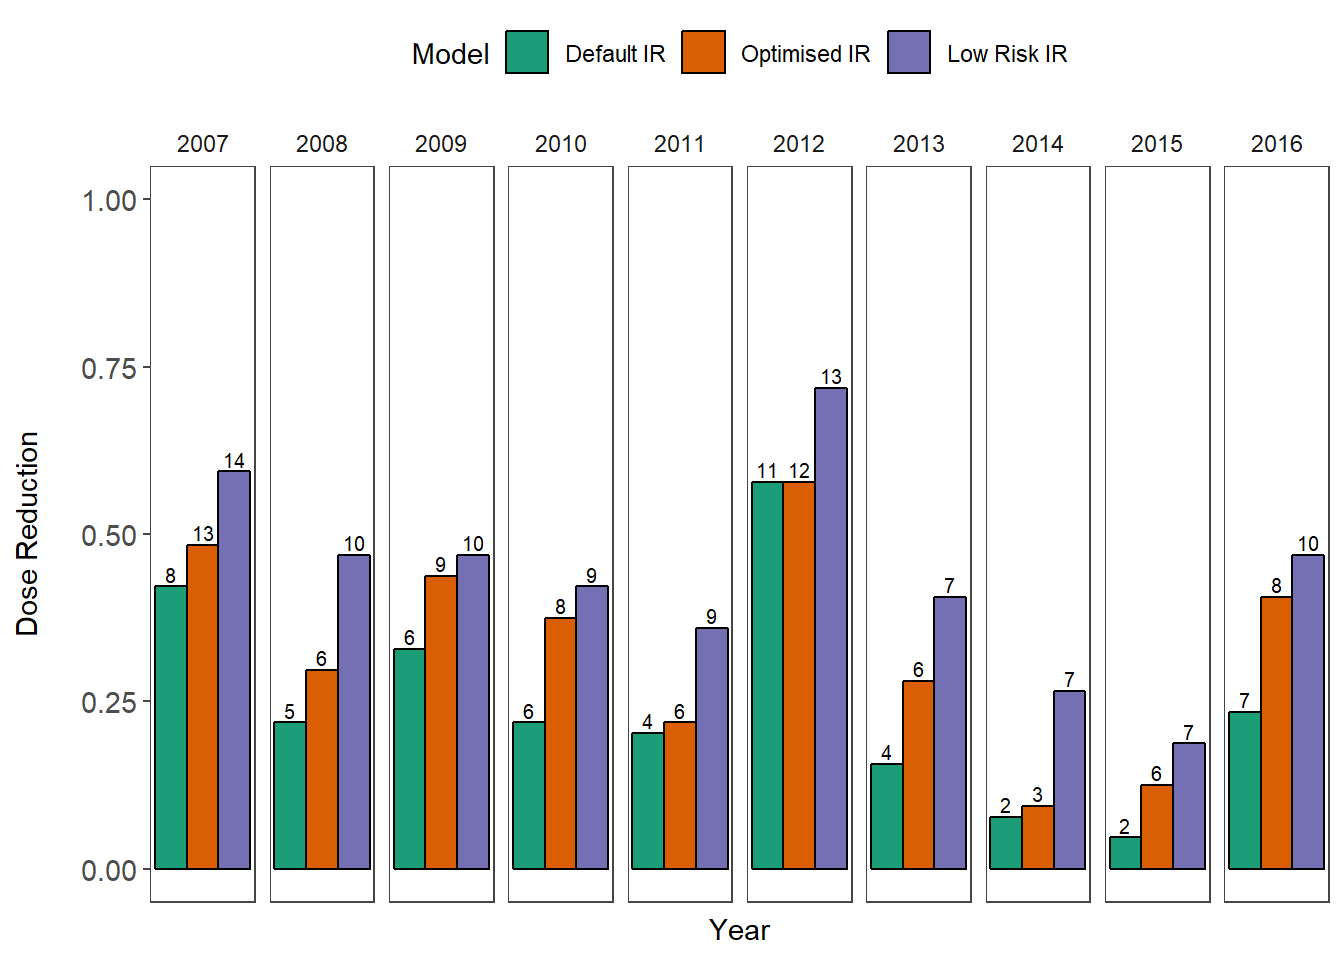
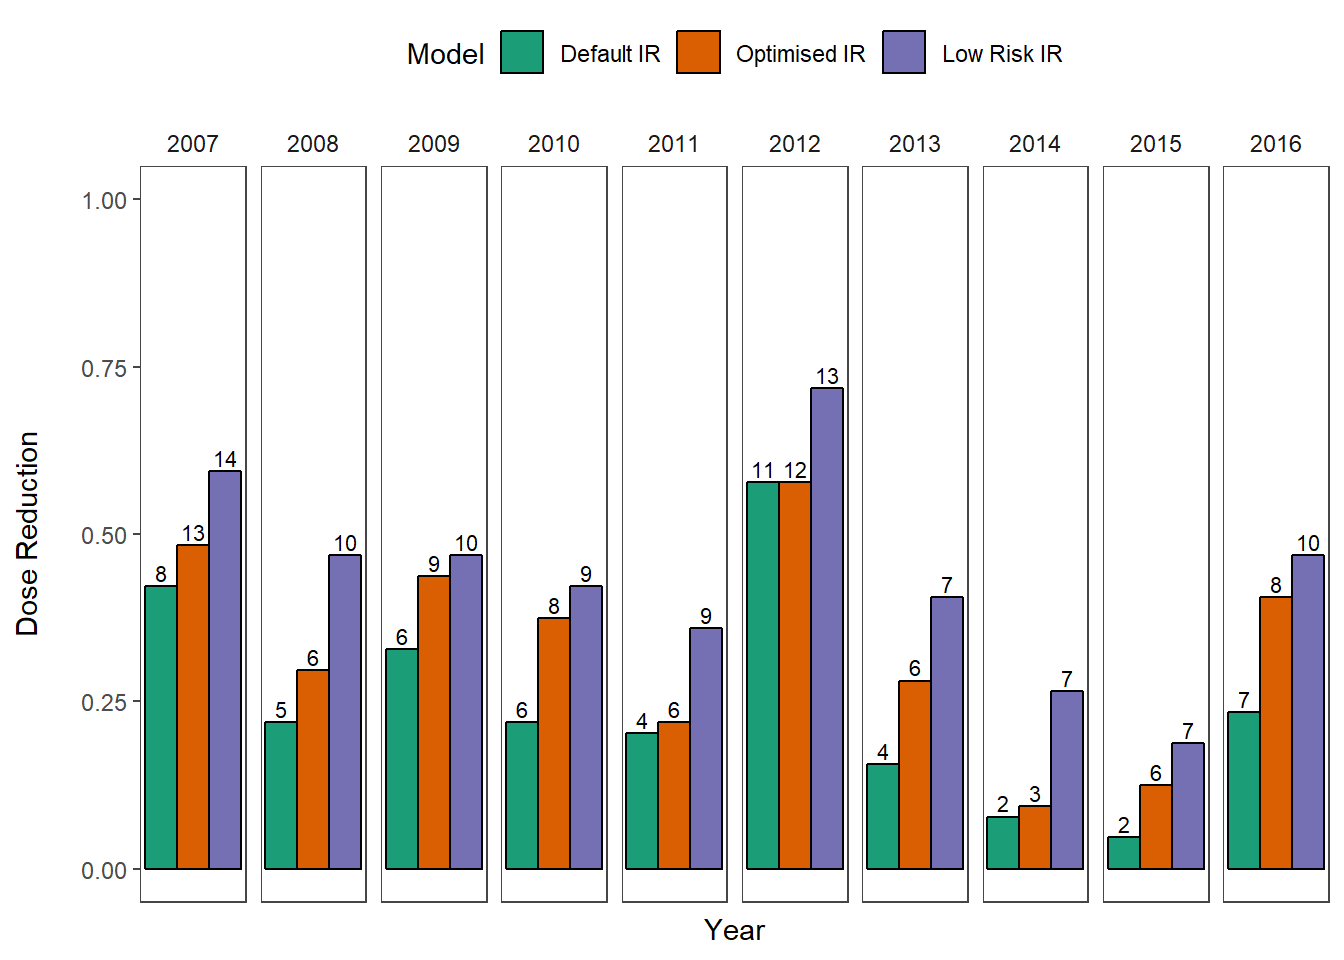
final

diff --git a/docs/FungicideTreatments.html b/docs/FungicideTreatments.html
@@ -840,7 +840,7 @@ clusterEvalQ(cl, library(&quot;tidyverse&quot;, quietly = TRUE, verbose = FALSE)
 },
 cl = cl)
 begin - Sys.time() #check the duration of the pcontrol_evaless in the console</code></pre>
-<pre><code>## Time difference of -4.582812 secs</code></pre>
+<pre><code>## Time difference of -4.547409 secs</code></pre>
 <pre class="r"><code>stopCluster(cl)</code></pre>
 <p>Melt the data frame.</p>
 <pre class="r"><code>control_eval_long &lt;-
@@ -1130,6 +1130,7 @@ Summary &lt;- function(x) {
   )
 }
 
+p1 &lt;- 
 dosedf %&gt;%
   dplyr::select(-(&quot;treat_week&quot;)) %&gt;%
   reshape2::melt(id = &quot;year_var&quot;,
@@ -1166,7 +1167,7 @@ dosedf %&gt;%
     vjust = -0.3,
     color = &quot;black&quot;,
     position = position_dodge(0.9),
-    size = 2.7
+    size = 2.9
   ) +
   scale_fill_brewer(&quot;Model&quot;, palette = &quot;Dark2&quot;) +
   theme_article() +
@@ -1178,11 +1179,12 @@ dosedf %&gt;%
     axis.title = element_text(size = 11),
     panel.grid.major = element_blank(),
     panel.grid.minor = element_blank(),
-    axis.text = element_text(size = 11),
+    axis.text = element_text(size = 9),
     legend.position = &quot;top&quot;,
     axis.text.x = element_blank(),
     axis.ticks.x = element_blank()
-  )</code></pre>
+  )
+p1</code></pre>
 <p><img src="images/unnamed-chunk-9-1.png" width="672" /></p>
 <p>Now, let us make some summaries to see if we can reduce the number of treatments and fungicide usage based on the model outputs.</p>
 <pre class="r"><code>SummaryTwo &lt;- function(x) {
@@ -1195,7 +1197,7 @@ dosedf %&gt;%
     max = max(x)
   )
 }
-
+p2 &lt;- 
 dosedf %&gt;%
   dplyr::select(-(&quot;treat_week&quot;)) %&gt;%
   reshape2::melt(id = &quot;year_var&quot;,
@@ -1243,12 +1245,21 @@ dosedf %&gt;%
     panel.grid.major = element_blank(),
     panel.grid.minor = element_blank(),
     axis.text = element_text(size = 11),
-    legend.position = c(0.35, 0.85),
+    legend.position = &quot;none&quot;,
     axis.text.x = element_blank(),
     axis.ticks.x = element_blank()
   )  +
-  coord_equal(6 / 1)</code></pre>
+  coord_equal(6 / 1)
+  p2 +
+    theme(legend.position = c(0.35, 0.85))</code></pre>
 <p><img src="images/unnamed-chunk-10-1.png" width="672" /></p>
+<pre class="r"><code>p2 &lt;- 
+p2+
+  labs(x = &quot;Overall&quot;, y= &quot;&quot;)+
+  theme(axis.text = element_blank(),
+        axis.ticks.y = element_blank())
+ggarrange(p1, p2, ncol = 2, widths = c(10,1))</code></pre>
+<p><img src="images/unnamed-chunk-11-1.png" width="672" /></p>
 <p>Packages used</p>
 <pre class="r"><code>sessionInfo()</code></pre>
 <pre><code>## R version 3.6.0 (2019-04-26)
